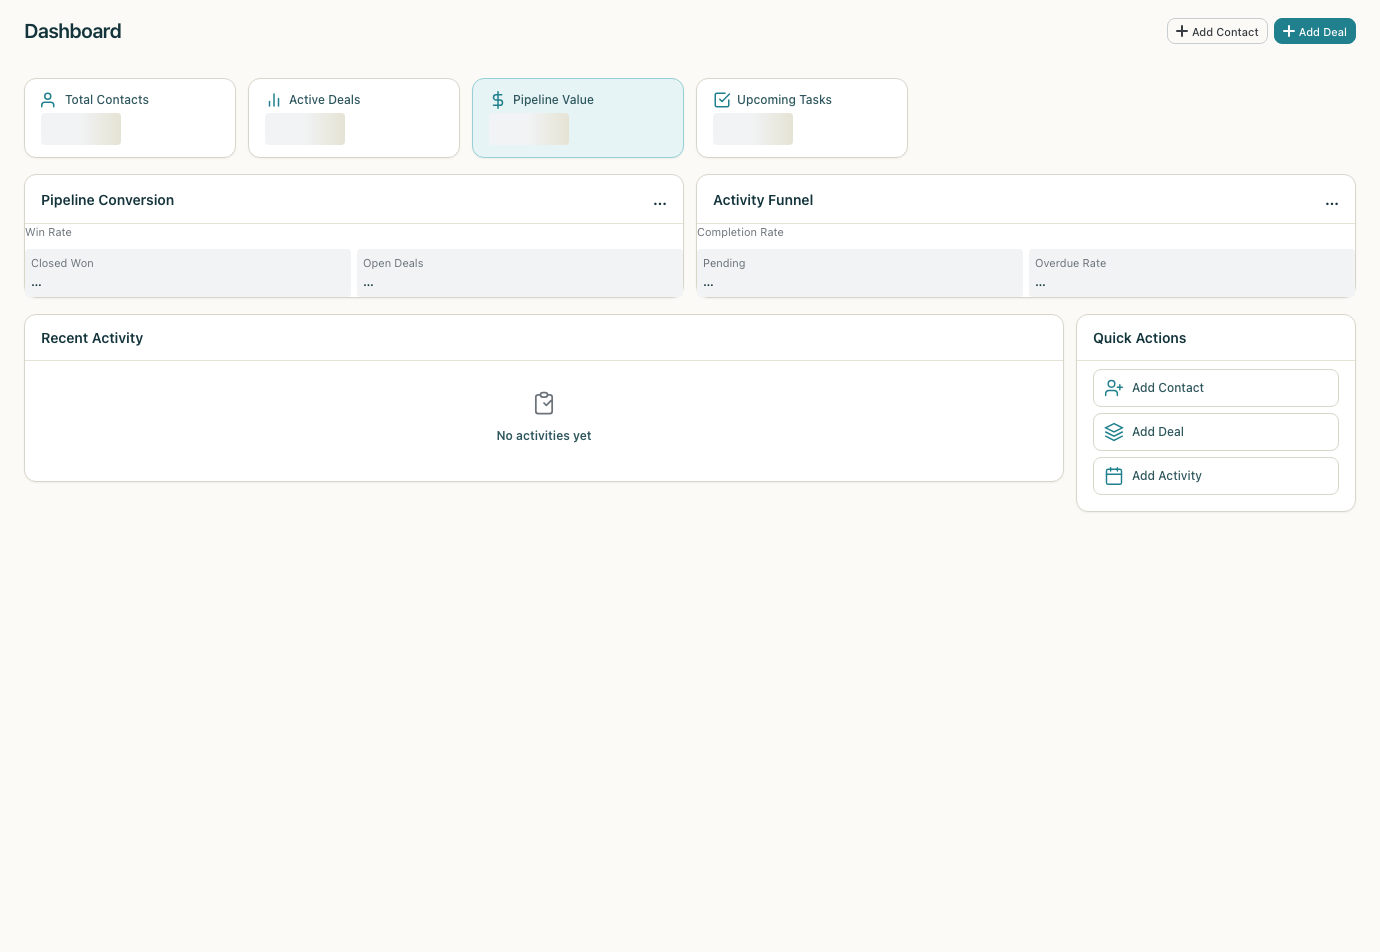
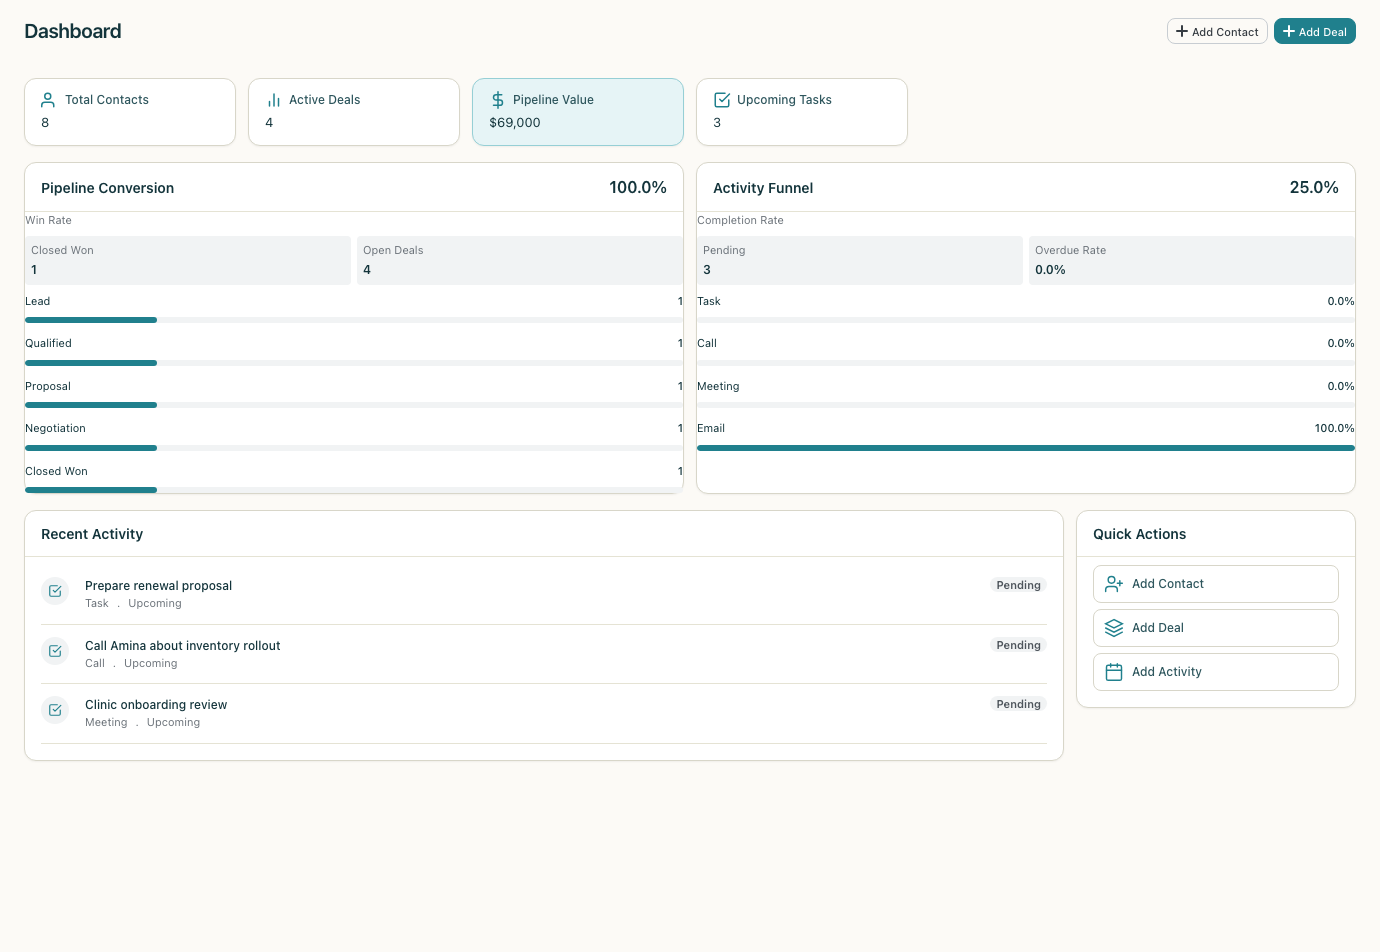
docs: repair README screenshot baseline

diff --git a/docs/sprint_049_readme_screenshot_baseline_2026-06-24.md b/docs/sprint_049_readme_screenshot_baseline_2026-06-24.md
@@ -8,6 +8,8 @@ Scope: Public README screenshot assets and documentation wiring only.
 
 - Replaced the five top-level README screenshot placeholders with committed PNG assets under `docs/assets/readme/`.
 - Added `scripts/capture-readme-screenshots.mjs` as an opt-in helper for regenerating the README screenshots from the Vite-rendered browser app shell.
+- Repaired the dashboard capture so the public README overview image waits for rendered KPI values, report values, and seeded recent activity instead of loading placeholders.
+- Moved the Data Management screenshot from the opening overview to the Backup / Restore section.
 - Kept the README release wording source-only; this sprint does not add or imply packaged desktop releases.
 - Updated the sprint ledger with the screenshot baseline entry.
 
@@ -35,9 +37,9 @@ The helper starts the desktop Vite app on localhost, installs a test-only Tauri 
 - No Rust, schema, MCP, AI, sync server, release packaging, CI, or dependency changes.
 - No generated test reports, traces, build output, `node_modules`, local paths, or packaged-release claims are part of the committed docs/assets change.
 
-## Limitation
+## Notes
 
-The contacts, pipeline, and activities screenshots use clearly synthetic records created through the visible browser-smoke UI. The dashboard screenshot reflects the current Vite-rendered browser-shell dashboard state from the existing smoke path; this sprint did not change product/runtime loader behavior to force dashboard metrics.
+The contacts, pipeline, and activities screenshots use clearly synthetic records created through the visible browser-smoke UI. The dashboard screenshot uses the same test-only Tauri IPC shim as the browser smoke path and waits for concrete KPI, report, and recent-activity values before capture. This sprint did not change product/runtime loader behavior.
 
 ## Verification
 

diff --git a/README.md b/README.md
@@ -44,7 +44,7 @@ Learn more at [900labs.com/impact](https://www.900labs.com/impact).
 
 Your business data stays on your device. Nothing is ever uploaded anywhere.
 
-![900CRM settings data management surface](docs/assets/readme/900crm-data-management.png)
+![900CRM dashboard overview screen](docs/assets/readme/900crm-dashboard.png)
 
 ---
 
@@ -68,8 +68,6 @@ Link tasks, calls, meetings, and follow-ups to any contact or deal. Set due date
 ### Dashboard
 At-a-glance business metrics on every launch: pipeline value, deals by stage, upcoming tasks, recently modified contacts, and activity completion rates. No configuration needed — it works out of the box.
 
-![900CRM dashboard screen](docs/assets/readme/900crm-dashboard.png)
-
 ### Search
 Full-text search across contacts, deals, and activities. Instant results as you type. Filter by entity type, date range, or tag. Works 100% offline — every search query stays on your machine.
 
@@ -78,6 +76,8 @@ Bring your existing data in with local CSV import for contacts, deals, and organ
 
 ### Backup / Restore
 Create local SQLite backups from Settings, validate backup integrity before restore, and restore only after explicit confirmation. See [Backup and Restore](docs/BACKUP_RESTORE.md) for the safety workflow.
+
+![900CRM settings data management surface](docs/assets/readme/900crm-data-management.png)
 
 ### Internationalization (i18n)
 The entire interface is localized. Switch languages in settings instantly. Full right-to-left (RTL) layout support for Arabic and future RTL languages. Community translations welcome.
